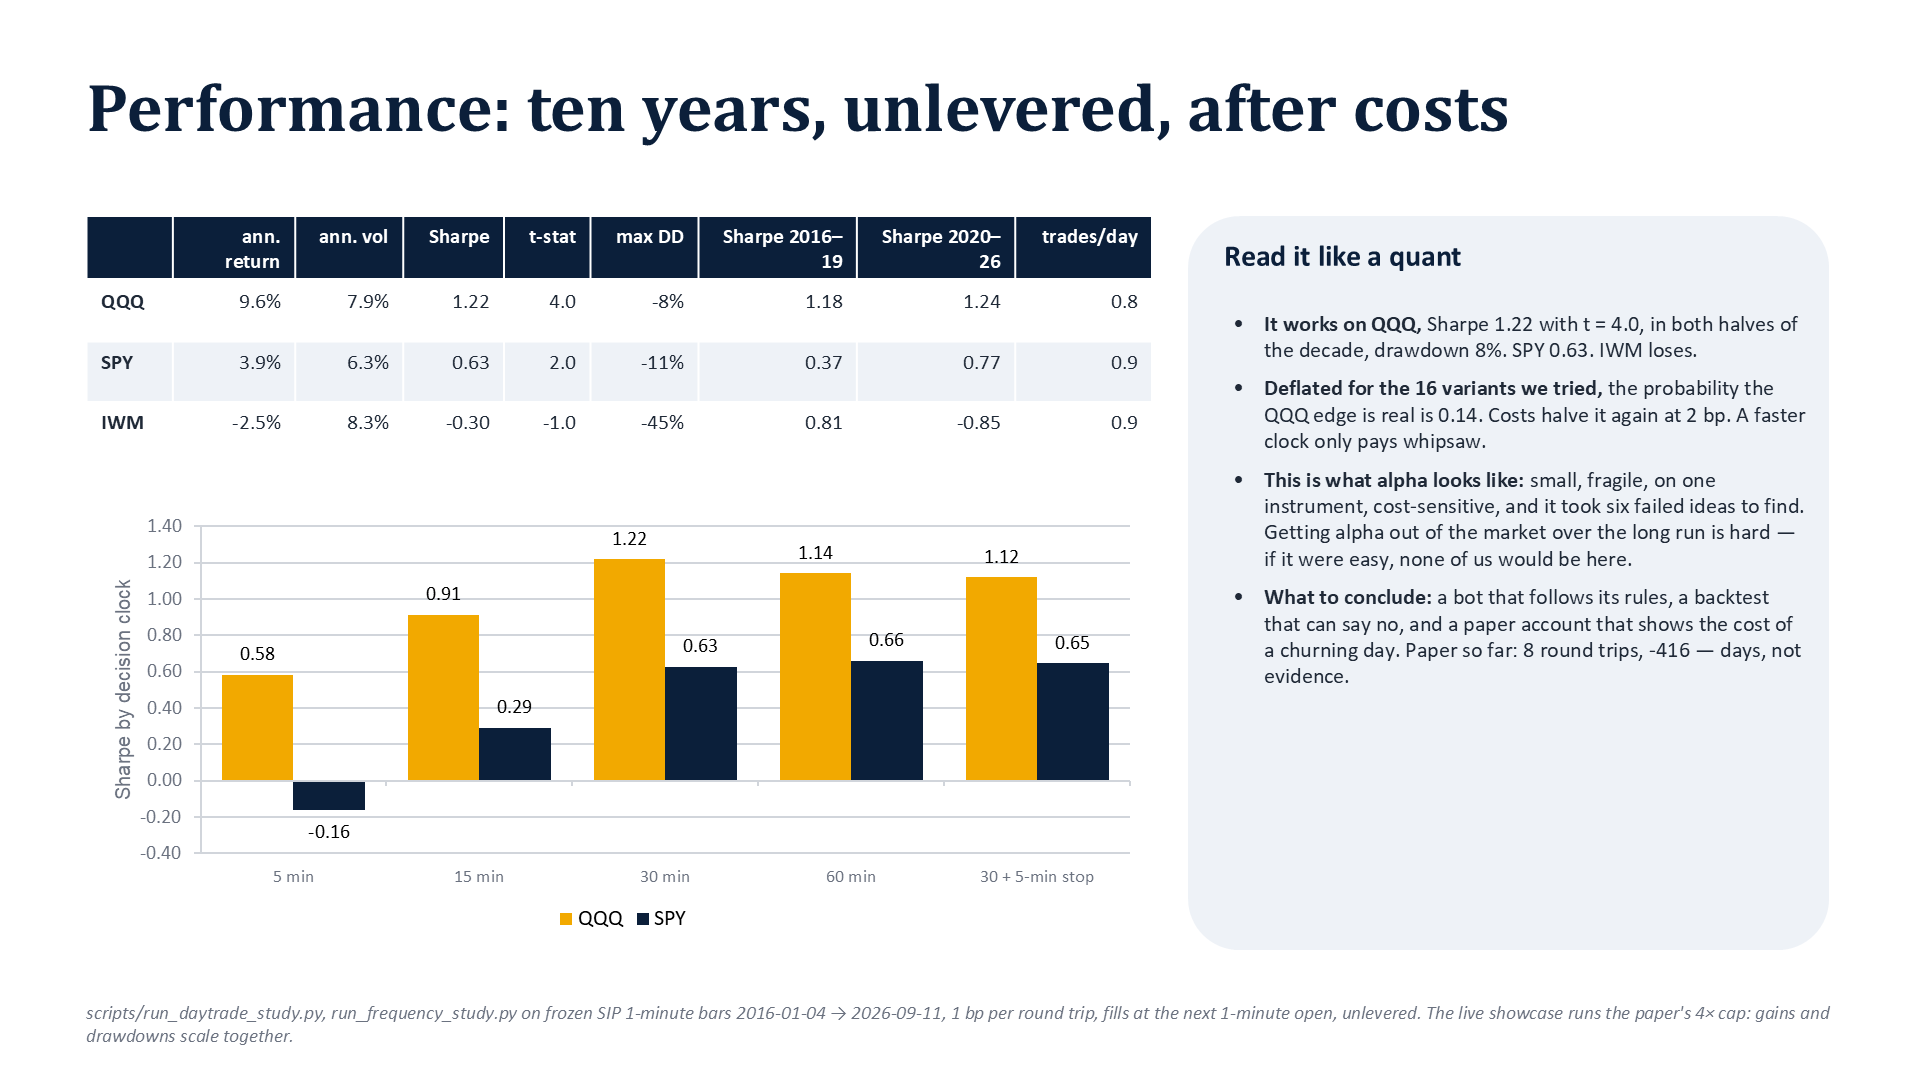
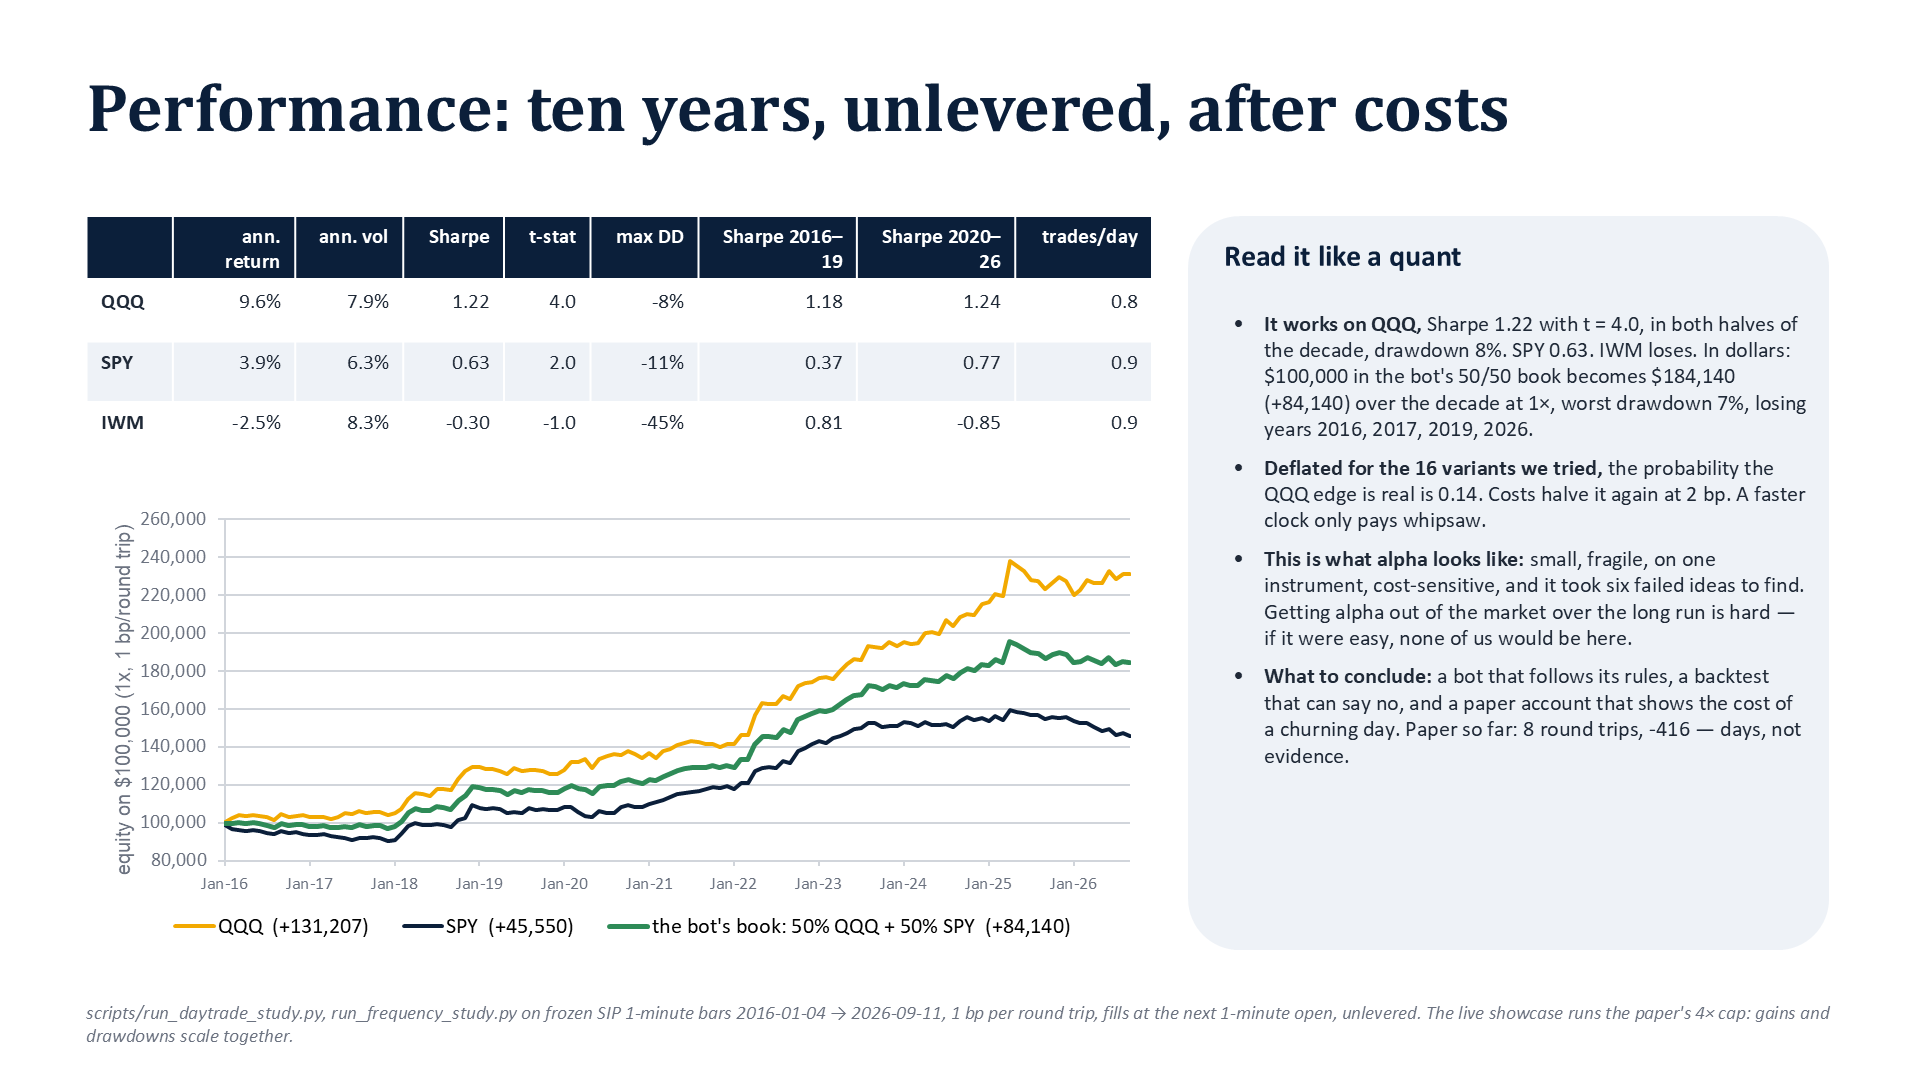
backtest.py: dollar P&L on $100k by year, equity curve chart and CSV; deck slide 5 shows the curve

diff --git a/backtest.py b/backtest.py
@@ -204,7 +204,68 @@ def main() -> None:
     f = RESULTS / ("ladder.json" if a.ladder else "backtest.json")
     f.write_text(json.dumps(out, indent=2, default=str))
     print(f"\n-> {f}")
+    if not a.ladder:
+        pnl_report(a, common, variants[0])
     print("Reminder: every variant you try counts. Re-run with --trials <total tried> and watch the deflated PSR.")
+
+
+# ------------------------------------------------------------------------ P&L view
+START_EQUITY = 100_000.0
+
+
+def pnl_report(a, common: dict, variant: dict) -> None:
+    """Dollar P&L on $100k: equity curves per ETF and for the book the bot runs (equal weight of
+    bot.SYMBOLS, i.e. 50% QQQ + 50% SPY), total and by year. Writes CSV, JSON and a chart."""
+    try:
+        from bot import SYMBOLS as BOT_SYMBOLS
+    except Exception:
+        BOT_SYMBOLS = ["QQQ", "SPY"]
+    curves, rets = {}, {}
+    for sym in a.symbols:
+        days = load_days(sym)
+        r, _ = run_strategy(days, **variant, **common)
+        rets[sym] = pd.Series(r, index=pd.to_datetime([d for d, *_ in days]))
+    book = [s for s in BOT_SYMBOLS if s in rets]
+    if len(book) >= 2:
+        rets["BOOK (" + "+".join(book) + ", equal weight)"] = pd.concat([rets[s] for s in book], axis=1).fillna(0.0).mean(axis=1)
+    eq = pd.DataFrame({k: START_EQUITY * (1 + v).cumprod() for k, v in rets.items()}).ffill()   # union of the calendars
+    pnl_by_year = {}
+    for k, v in rets.items():
+        s = START_EQUITY * (1 + v).cumprod()          # each series on its own calendar: no gaps to mis-fill
+        daily_pnl = s.diff()
+        daily_pnl.iloc[0] = s.iloc[0] - START_EQUITY
+        pnl_by_year[k] = daily_pnl.groupby(s.index.year).sum()
+    summary = {"start_equity": START_EQUITY, "lev_cap": a.lev_cap, "cost_bp": a.cost_bp, "variant": variant,
+               "total_pnl": {k: float(eq[k].iloc[-1] - START_EQUITY) for k in eq},
+               "final_equity": {k: float(eq[k].iloc[-1]) for k in eq},
+               "max_drawdown": {k: float((eq[k] / eq[k].cummax() - 1).min()) for k in eq},
+               "pnl_by_year": {k: {str(y): float(v) for y, v in s.items()} for k, s in pnl_by_year.items()}}
+    tag = f"lev{a.lev_cap:g}x"
+    eq.to_csv(RESULTS / f"equity_{tag}.csv", index_label="date")
+    (RESULTS / f"pnl_{tag}.json").write_text(json.dumps(summary, indent=2))
+    years = sorted({y for s in pnl_by_year.values() for y in s.index})
+    print(f"\nP&L on ${START_EQUITY:,.0f} starting equity, {tag}, {a.cost_bp} bp per round trip")
+    print(f"  {'':34}" + "".join(f"{y:>9}" for y in years) + f"{'total':>11}{'maxDD':>8}")
+    for k in eq:
+        row = "".join(f"{pnl_by_year[k].get(y, 0.0):>9,.0f}" for y in years)
+        print(f"  {k:34}{row}{summary['total_pnl'][k]:>11,.0f}{summary['max_drawdown'][k]:>8.1%}")
+    try:
+        import matplotlib
+        matplotlib.use("Agg")
+        import matplotlib.pyplot as plt
+        fig, ax = plt.subplots(figsize=(11, 5))
+        for k in eq:
+            ax.plot(eq.index, eq[k], label=f"{k}  ({summary['total_pnl'][k]:+,.0f})", linewidth=2.2 if k.startswith("BOOK") else 1.3)
+        ax.axhline(START_EQUITY, color="grey", linewidth=0.8)
+        ax.set_title(f"Noise-area intraday momentum: equity on ${START_EQUITY:,.0f}, {tag}, {a.cost_bp} bp/round trip, flat every night")
+        ax.set_ylabel("equity ($)")
+        ax.legend(loc="upper left", frameon=False)
+        ax.grid(alpha=0.3)
+        fig.tight_layout()
+        fig.savefig(RESULTS / f"pnl_{tag}.png", dpi=150)
+        print(f"-> {RESULTS / f'pnl_{tag}.png'}, {RESULTS / f'equity_{tag}.csv'}")
+    except Exception as e:                                      # matplotlib is optional
+        print(f"(no chart: {e})")
 
 
 if __name__ == "__main__":

diff --git a/README.md b/README.md
@@ -34,6 +34,12 @@ What you should see (2016-01 → 2026-09, unlevered, 1 bp): QQQ Sharpe about 1.1
 t-stat near 4 in both halves of the decade; SPY about 0.6; IWM negative. The ladder shows every
 faster clock losing edge: QQQ 1.22 at 30 minutes, 0.91 at 15, 0.58 at 5.
 
+Every non-ladder run also prints the **P&L in dollars** on $100,000, by year, for each ETF and
+for the book the bot runs (50% QQQ + 50% SPY), and writes `results/pnl_lev1x.png` (the equity
+curve), `results/equity_lev1x.csv` and `results/pnl_lev1x.json`. At 1× the book turns $100,000
+into about $184,000 over the decade with a 7% worst drawdown and three losing years; at
+`--lev-cap 4` it is about $299,000 with a 17% drawdown. Leverage scales both.
+
 The backtest is honest by construction: the band for day *t* uses only days *t−14…t−1*, the
 signal is the last bar before the decision and the fill is the next bar's open, costs are charged on
 every round trip, and the Sharpe is deflated for the number of variants you ran. Run `--ladder`
